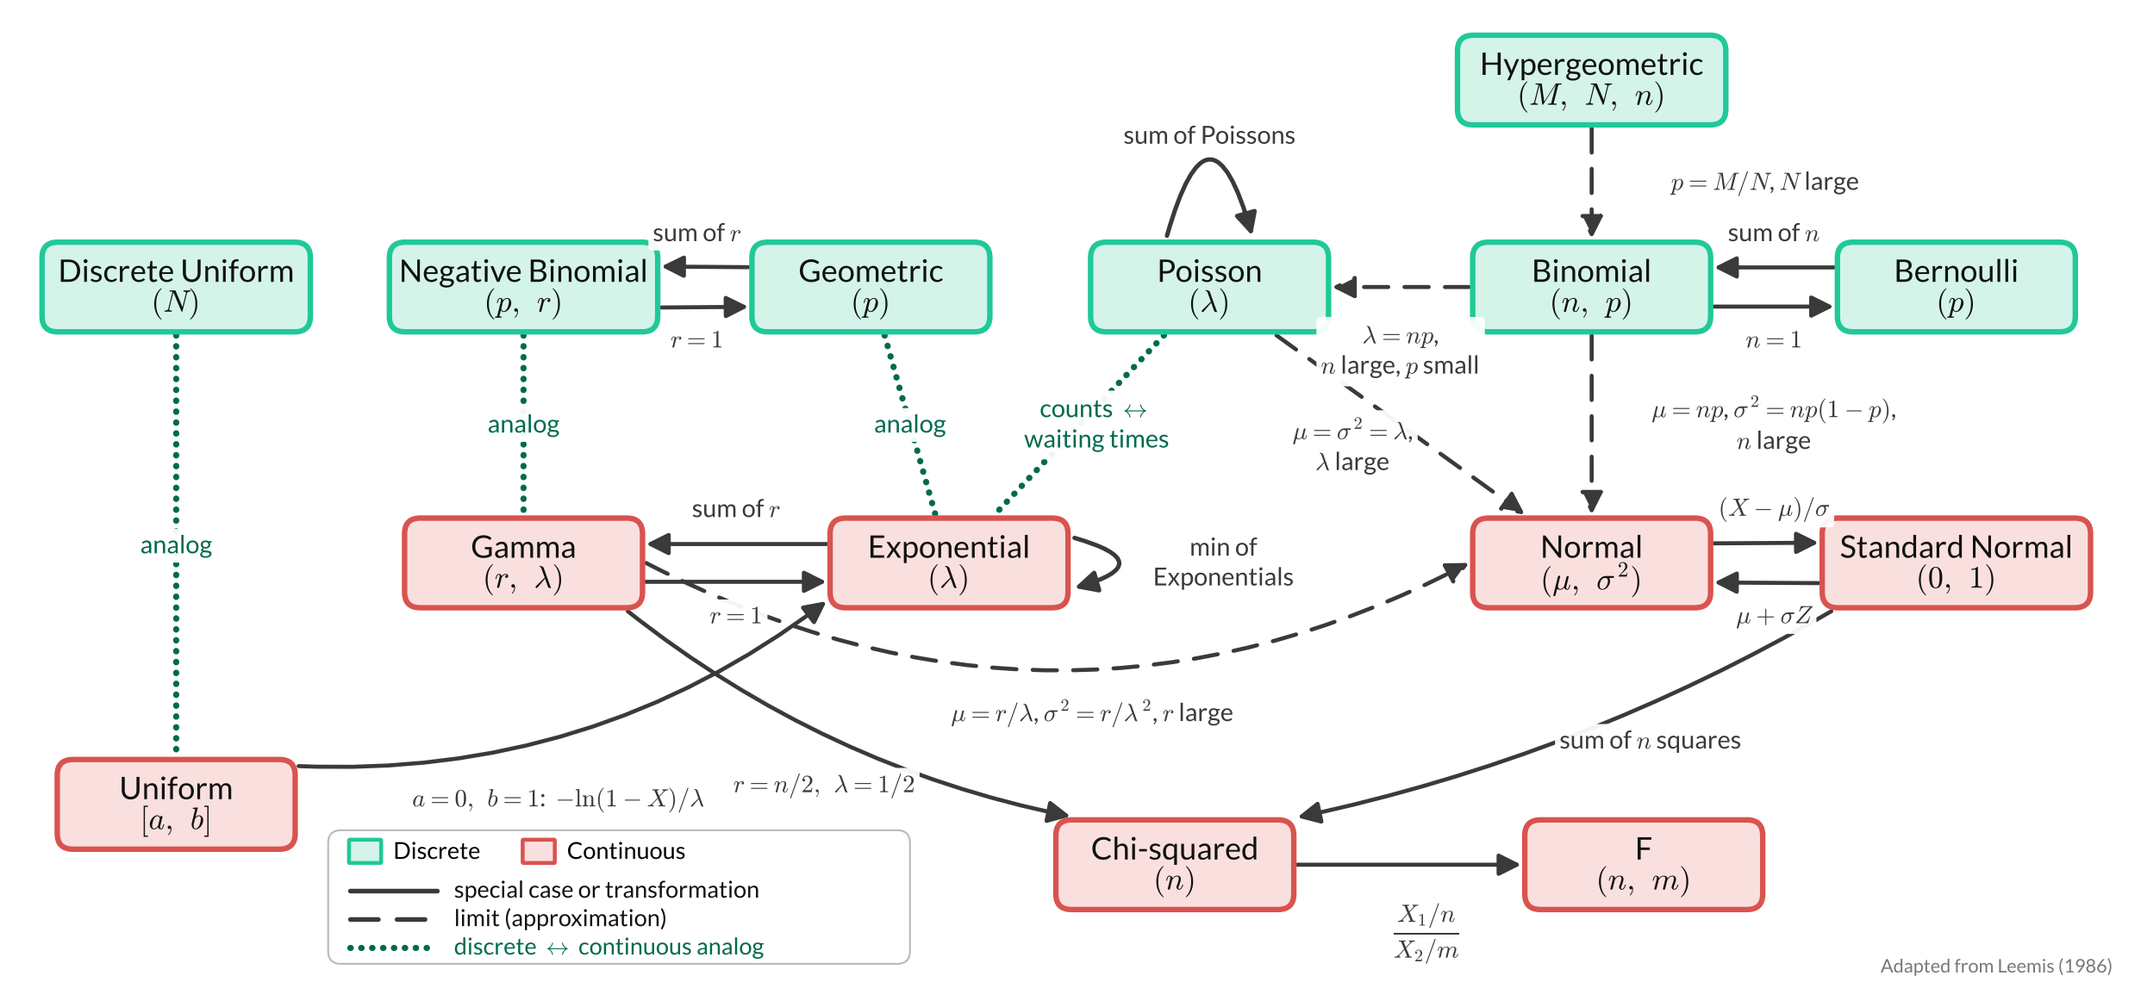
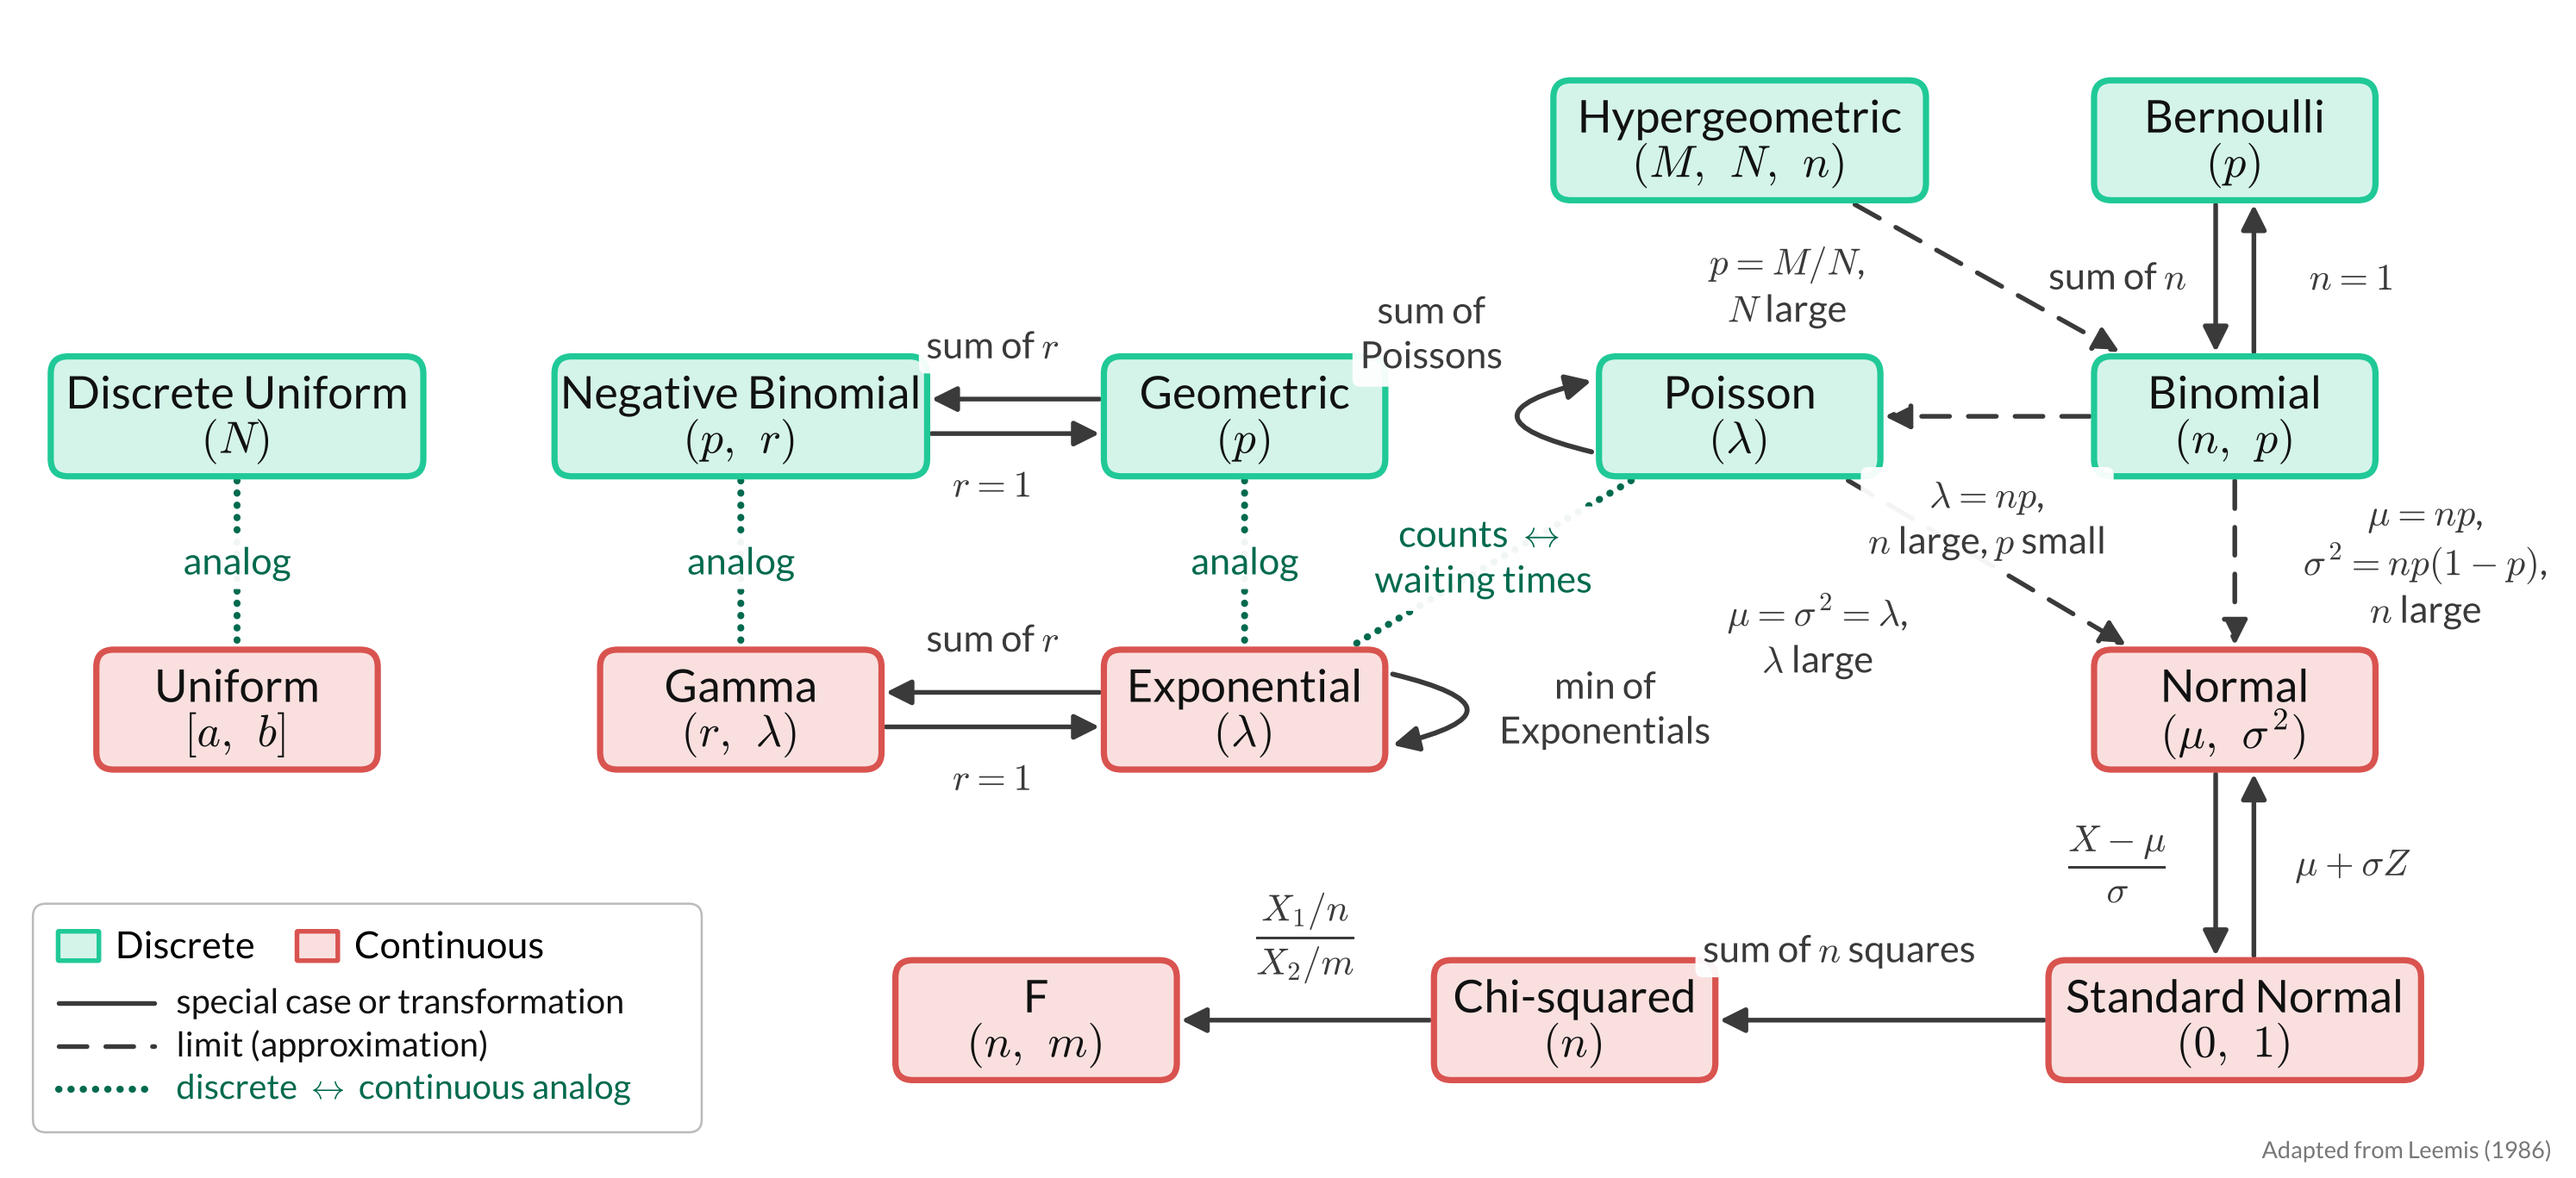
adding cont rv lesson

diff --git a/docs/lessons/13_Cont_RVs/13_Cont_RVs.html b/docs/lessons/13_Cont_RVs/13_Cont_RVs.html
@@ -1687,7 +1687,7 @@ F_X(x) = \left\{
 
 
 
-<img data-src="../img_slides/distribution_relationships.png" class="quarto-figure quarto-figure-center r-stretch" width="1700"></section></section>
+<img data-src="../img_slides/distribution_relationships.png" class="quarto-figure quarto-figure-center r-stretch" width="1850"></section></section>
     </div>
   <div class="quarto-auto-generated-content" style="display: none;">
 <div class="footer footer-default">
